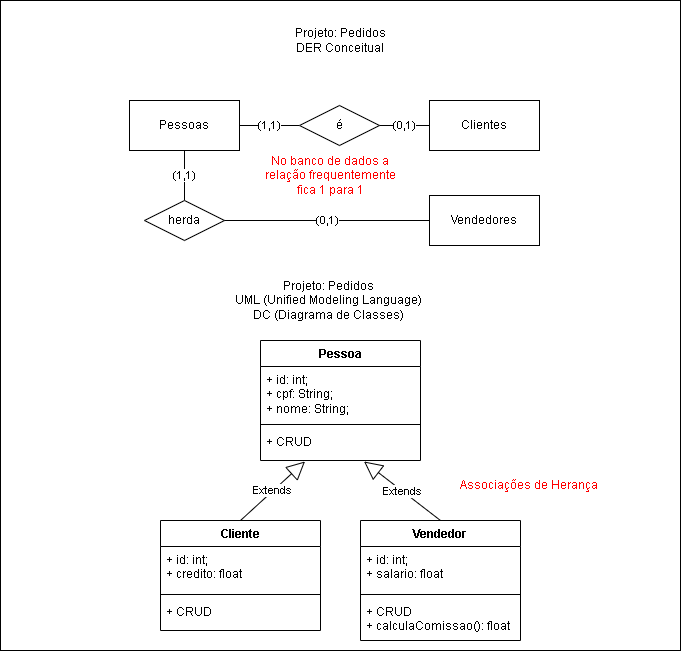
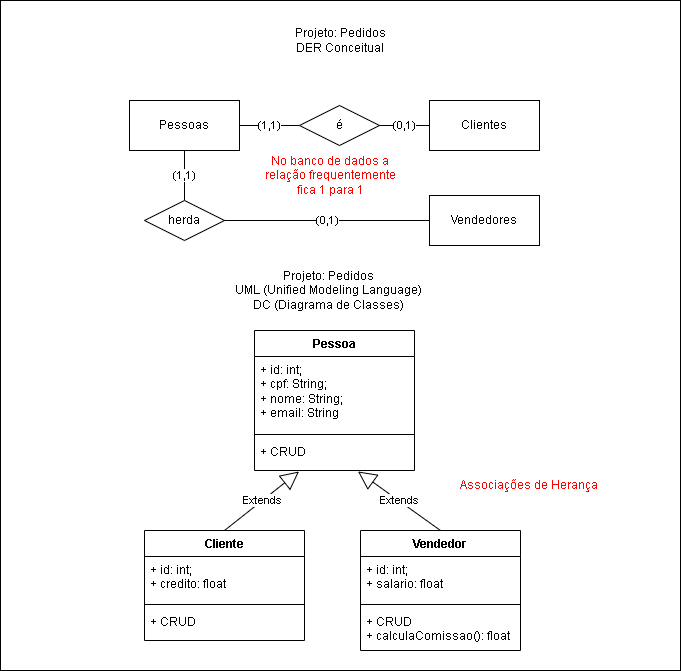
herança e exercício

diff --git a/2em/2DES/03-pbe1/aula11/README.md b/2em/2DES/03-pbe1/aula11/README.md
@@ -307,3 +307,147 @@ O resultado em JSON visto no vavegador ou insomnia na rotas GET http://localhost
 	}
 ]
 ```
+[Segue aqui uma API Back-end completa do exemplo da relação de agregação](./agregacao/)
+
+### Exemplo de Herança
+Vamos iniciar um projeto pedidos do zero com apenas trêstabelas: pessoas, clientes e vendedores.<br>
+A tabela pessoas é a superclasse de clientes e vendedores. A tabela clientes e vendedores são subclasses de pessoas.
+
+<br>![Heranca](./heranca/pedidos_heranca.png)<br>
+```sql
+drop database if exists pedidos;
+create database pedidos;
+use pedidos;
+
+create table pessoas(
+    id int not null primary key auto_increment,
+    cpf varchar(14) not null unique,
+    nome varchar(100) not null,
+    email varchar(100) not null unique
+);
+
+create table clientes(
+    id int not null primary key auto_increment,
+    pessoa_id int not null,
+    credito decimal(10,2),
+    foreign key (pessoa_id) references pessoas(id)
+);
+
+create table vendedores(
+    id int not null primary key auto_increment,
+    pessoa_id int not null,
+    salario decimal(10,2) not null,
+    foreign key (pessoa_id) references pessoas(id)
+);
+
+insert into pessoas(cpf, nome, email) values
+('111.111.111-11', 'Ana Santos', 'ana@email.com'),
+('222.222.222-22', 'Bruno Silva', 'bruno@email.com'),
+('333.333.333-33', 'Carlos Souza', 'carlos@email.com'),
+('444.444.444-44', 'Daniela Oliveira', 'daniela@email.com'),
+('555.555.555-55', 'Eduardo Pereira', 'eduardo@email.com'),
+('666.666.666-66', 'Fernanda Lima', 'fernanda@email.com');
+
+insert into clientes(pessoa_id, credito) values
+(1, 1000.00),
+(2, 2000.00),
+(3, null);
+
+insert into vendedores(pessoa_id, salario) values
+(4, 2000.00),
+(5, 3000.00);
+-- As visões a seguir juntam as tabelas pessoas, clientes e vendedores exemplificando a herança.
+drop view if exists vw_clientes;
+create view vw_clientes as
+select c.id as cliente_id, p.id, p.cpf, p.nome, p.email, c.credito
+from pessoas p join clientes c on p.id = c.pessoa_id;
+
+drop view if exists vw_vendedores;
+create view vw_vendedores as
+select v.id as vendedor_id, p.id, p.cpf, p.nome, p.email, v.salario
+from pessoas p join vendedores v on p.id = v.pessoa_id;
+
+select * from vw_clientes;
+select * from vw_vendedores;
+```
+
+- Vamos ver esta visão em um back-end NodeJS
+- Arquivo ./src/controllers/vendedor.js
+```javascript
+const con = require('../connect');
+const create = (req, res) => {
+    const { cpf, nome, email, salario } = req.body;
+    con.query('INSERT INTO pessoas (cpf, nome, email) VALUES (?, ?, ?)',
+        [cpf, nome, email],
+        (err, result) => {
+            if (err) {
+                return res.status(500).json({ error: err.message });
+            }
+            const clienteId = criarVendedor(result.insertId, salario);
+            return res.status(201).json({ id: result.insertId, clienteId, cpf, nome, email });
+        });
+}
+
+const criarVendedor = async (pessoaId, credito) => {
+    con.query('INSERT INTO vendedores (pessoa_id, salario) VALUES (?, ?)',
+        [pessoaId, credito],
+        (err, result) => {
+            if (err) {
+                console.log(err);
+            }
+            return result.insertId;
+        });
+}
+
+const read = (req, res) => {
+    con.query('SELECT * FROM vw_vendedores',
+        (err, result) => {
+            if (err) {
+                return res.status(500).json({ error: err.message });
+            }
+            return res.status(200).json(result);
+        }
+    );
+}
+module.exports = { create, read };
+```
+- O resultado em JSON, após incluir mais um vendedor, visto no vavegador ou insomnia na rotas GET http://localhost:3000/vendedores
+```json
+[
+	{
+		"vendedor_id": 1,
+		"id": 4,
+		"cpf": "444.444.444-44",
+		"nome": "Daniela Oliveira",
+		"email": "daniela@email.com",
+		"salario": 2000
+	},
+	{
+		"vendedor_id": 2,
+		"id": 5,
+		"cpf": "555.555.555-55",
+		"nome": "Eduardo Pereira",
+		"email": "eduardo@email.com",
+		"salario": 3000
+	},
+	{
+		"vendedor_id": 3,
+		"id": 7,
+		"cpf": "888.888.888-88",
+		"nome": "Amanda Martins",
+		"email": "amanda@email.com",
+		"salario": 7000
+	}
+]
+```
+[Segue aqui uma API Back-end completa do exemplo da relação de herança](./heranca/)
+
+### Exercício
+Clone o exemplo em ./agregacao e altere adicionando o conceito de herança com pessoas, clientes e vendedores, adicione também as seguintes regras de negócio.
+- Um cliente pode ter um ou mais pedidos.
+- Um vendedor pode ter um ou mais pedidos.
+- No pedido não é obrigatório ter um cliente ou um vendedor.
+- Um pedido pode ter um ou mais produtos.
+- Um produto pode estar em um ou mais pedidos.
+- O vendedor ganha 10% de comissão sobre o total do pedido.
+- Crie uma visão que mostre os vendedores agregados dos pedidos e a comissão.

diff --git a/2em/2DES/03-pbe1/aula11/heranca/README.md b/2em/2DES/03-pbe1/aula11/heranca/README.md
@@ -24,5 +24,31 @@ npx nodemon
 ## Exemplo de saída da rota vendedores
 A saída com a lista de clientes agregados dos pedidos é:
 ```json
-
+[
+	{
+		"vendedor_id": 1,
+		"id": 4,
+		"cpf": "444.444.444-44",
+		"nome": "Daniela Oliveira",
+		"email": "daniela@email.com",
+		"salario": 2000
+	},
+	{
+		"vendedor_id": 2,
+		"id": 5,
+		"cpf": "555.555.555-55",
+		"nome": "Eduardo Pereira",
+		"email": "eduardo@email.com",
+		"salario": 3000
+	},
+	{
+		"vendedor_id": 3,
+		"id": 7,
+		"cpf": "888.888.888-88",
+		"nome": "Amanda Martins",
+		"email": "amanda@email.com",
+		"salario": 7000
+	}
+]
 ```
+![Insomnia](./insominia_print.png)
